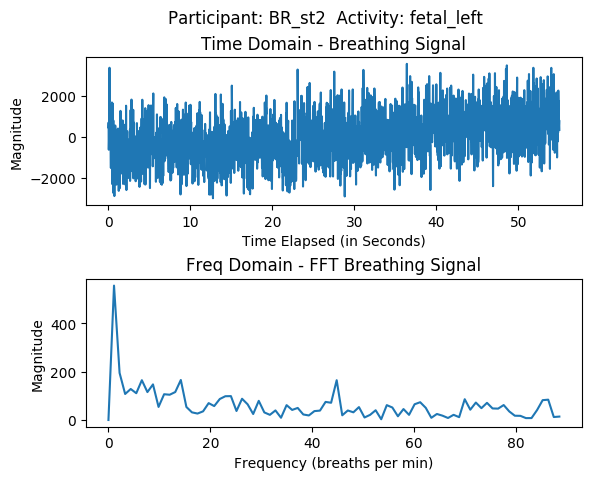
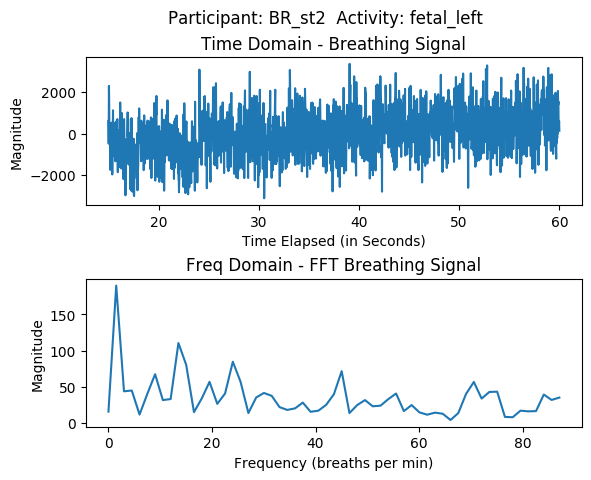
trim signal

diff --git a/step4_vitalSign.py b/step4_vitalSign.py
@@ -1,0 +1,76 @@
+from scipy.io import loadmat
+import numpy as np
+import math
+import matplotlib.pyplot as plt
+from scipy.fftpack import fft
+
+fileRef = {'time': '/t_stmp.mat', 'bin': 'range_bins.mat', 'mag': 'rawscans.mat'}
+radarRef = {'time': 't_stmp', 'bin': 'range_bins', 'mag': 'rawscans'}
+signalTrimRef = {
+                'Radar 1': {
+                'BR_st1': {'browsing': [20, 40], 'fetal_left': [15, 60], 'fetal_right': [15, 60], 'freefall': [0, 55], 'left_turned': [20, 60], 'right_turned': [10, 60]}, 
+                'BR_st2': {'browsing': [20, 29], 'fetal_left': [15, 60], 'fetal_right': [10, 40], 'freefall': [37, 55], 'left_turned': [33, 50], 'right_turned': [10, 35], 'soldier': [21, 60]} 
+                },
+                'Radar 2': {
+                'BR_st1': {'fetal_left': [26, 60], 'fetal_right': [6, 60], 'soldier': [26, 55]}, 
+                'BR_st2': {'fetal_left': [10, 55], 'fetal_right': [10, 55], 'freefall': [0, 45], 'left_turned': [0, 40], 'right_turned': [0, 40], 'soldier': [15, 60]} 
+                },
+                'Radar 3': {
+                'BR_st1': {'browsing': [26, 55], 'fetal_right': [10, 60], 'left_turned': [20, 60], 'right_turned': [10, 60]}, 
+                'BR_st2': {'browsing': [20, 29], 'fetal_left': [15, 60], 'fetal_right': [10, 40], 'freefall': [37, 55], 'left_turned': [33, 50], 'right_turned': [10, 35], 'soldier': [21, 60]} 
+                }
+                }
+
+pre_path = './DataSet/Vital Sign/'
+for participant in ['BR_st1', 'BR_st2']:
+    for radar in ['Radar 1', 'Radar 2', 'Radar 3']:
+        for pattern in ['browsing', 'fetal_left', 'fetal_right', 'freefall', 'left_turned', 'right_turned', 'soldier']:
+            radarData = {}
+            for files in fileRef:
+                radarData[files] = loadmat(pre_path + participant + '/' + radar + '/' + pattern + '/' + fileRef[files])[radarRef[files]]
+                if files == 'time' or files == 'bin':
+                    radarData[files] = radarData[files].flatten()
+            
+            binIdx = np.where(np.logical_and(radarData['bin'] > 0.8128, radarData['bin'] < 1.8161))
+            signal = [] 
+            iterations = np.shape(radarData['mag'])[0]
+            for i in range(iterations):
+                maxVal = np.max(radarData['mag'][i, :][binIdx])
+                signal.append(maxVal)
+            
+            timeElapsed = radarData['time'][-1] - radarData['time'][0]
+            sampleRate = timeElapsed/iterations
+
+            signal = np.asarray(signal)
+            trimStart = 0
+            trimEnd = timeElapsed
+            if pattern in signalTrimRef[participant]:
+                trimStart = signalTrimRef[participant][pattern][0]
+                trimEnd = signalTrimRef[participant][pattern][1]
+                iterStart = trimStart*iterations//timeElapsed
+                iterEnd = trimEnd*iterations//timeElapsed
+                signal = signal[iterStart: iterEnd + 1]
+                iterations = len(signal)
+            
+            signal = np.subtract(signal, np.mean(signal))
+
+            signalFFT = fft(np.multiply(signal, np.hamming(iterations)))
+            freqs = np.multiply(np.linspace(0.0, 1.0/(2.0*sampleRate), iterations//2), 60)
+            signalFFT = 2.0/iterations * np.abs(signalFFT[0:iterations//2])
+            idx = np.where(freqs < 90)[0][-1]
+            
+            plt.figure()
+            plt.subplot(211)
+            plt.plot(np.linspace(trimStart, trimEnd,iterations), signal)
+            plt.title('Time Domain - Breathing Signal')
+            plt.xlabel('Time Elapsed (in Seconds)')
+            plt.ylabel('Magnitude')
+
+            plt.subplot(212)
+            plt.plot(freqs[:idx], signalFFT[:idx])
+            plt.title('Freq Domain - FFT Breathing Signal')
+            plt.xlabel('Frequency (breaths per min)')
+            plt.ylabel('Magnitude')
+            plt.subplots_adjust(hspace=0.5)
+            plt.suptitle('Participant: ' + participant + '  Activity: ' + pattern)
+            plt.savefig('./step3_vital_sign/Vital_Sign_Radar1 ' + participant + '_' + pattern + '.png', bbox_inches="tight")

diff --git a/step3_vitalSign.py b/step3_vitalSign.py
@@ -1,12 +1,15 @@
 from scipy.io import loadmat
 import numpy as np
-import pandas as pd
 import math
 import matplotlib.pyplot as plt
 from scipy.fftpack import fft
 
 fileRef = {'time': '/t_stmp.mat', 'bin': 'range_bins.mat', 'mag': 'rawscans.mat'}
 radarRef = {'time': 't_stmp', 'bin': 'range_bins', 'mag': 'rawscans'}
+signalTrimRef = {
+                'BR_st1': {'browsing': [20, 40], 'fetal_left': [15, 60], 'fetal_right': [15, 60], 'freefall': [0, 55], 'left_turned': [20, 60], 'right_turned': [10, 60]}, 
+                'BR_st2': {'browsing': [20, 29], 'fetal_left': [15, 60], 'fetal_right': [10, 40], 'freefall': [37, 55], 'left_turned': [33, 50], 'right_turned': [10, 35], 'soldier': [21, 60]} 
+                }
 
 pre_path = './DataSet/Vital Sign/'
 for participant in ['BR_st1', 'BR_st2']:
@@ -18,7 +21,7 @@ for participant in ['BR_st1', 'BR_st2']:
                 radarData[files] = radarData[files].flatten()
         
         binIdx = np.where(np.logical_and(radarData['bin'] > 0.8128, radarData['bin'] < 1.8161))
-        signal = []
+        signal = [] 
         iterations = np.shape(radarData['mag'])[0]
         for i in range(iterations):
             maxVal = np.max(radarData['mag'][i, :][binIdx])
@@ -28,16 +31,26 @@ for participant in ['BR_st1', 'BR_st2']:
         sampleRate = timeElapsed/iterations
 
         signal = np.asarray(signal)
+        trimStart = 0
+        trimEnd = timeElapsed
+        if pattern in signalTrimRef[participant]:
+            trimStart = signalTrimRef[participant][pattern][0]
+            trimEnd = signalTrimRef[participant][pattern][1]
+            iterStart = trimStart*iterations//timeElapsed
+            iterEnd = trimEnd*iterations//timeElapsed
+            signal = signal[iterStart: iterEnd + 1]
+            iterations = len(signal)
+        
         signal = np.subtract(signal, np.mean(signal))
 
-        signalFFT = fft(signal)
+        signalFFT = fft(np.multiply(signal, np.hamming(iterations)))
         freqs = np.multiply(np.linspace(0.0, 1.0/(2.0*sampleRate), iterations//2), 60)
         signalFFT = 2.0/iterations * np.abs(signalFFT[0:iterations//2])
         idx = np.where(freqs < 90)[0][-1]
         
         plt.figure()
         plt.subplot(211)
-        plt.plot(np.linspace(0, timeElapsed,iterations), signal)
+        plt.plot(np.linspace(trimStart, trimEnd,iterations), signal)
         plt.title('Time Domain - Breathing Signal')
         plt.xlabel('Time Elapsed (in Seconds)')
         plt.ylabel('Magnitude')
@@ -50,3 +63,4 @@ for participant in ['BR_st1', 'BR_st2']:
         plt.subplots_adjust(hspace=0.5)
         plt.suptitle('Participant: ' + participant + '  Activity: ' + pattern)
         plt.savefig('./step3_vital_sign/Vital_Sign_Radar1 ' + participant + '_' + pattern + '.png', bbox_inches="tight")
+    

diff --git a/step2_trilateration.py b/step2_trilateration.py
@@ -60,7 +60,7 @@ for participant in ['participant1', 'participant2']:
 
         window_size = 12
         window_shift = 6
-        threshold = 600000
+        threshold = 50000
         minIterations = min([np.shape(timeSyncData['103'])[0], np.shape(timeSyncData['108'])[0], np.shape(timeSyncData['109'])[0]])
         iterations = math.floor((minIterations - window_size)/window_shift) + 1
         for i in range(iterations):
